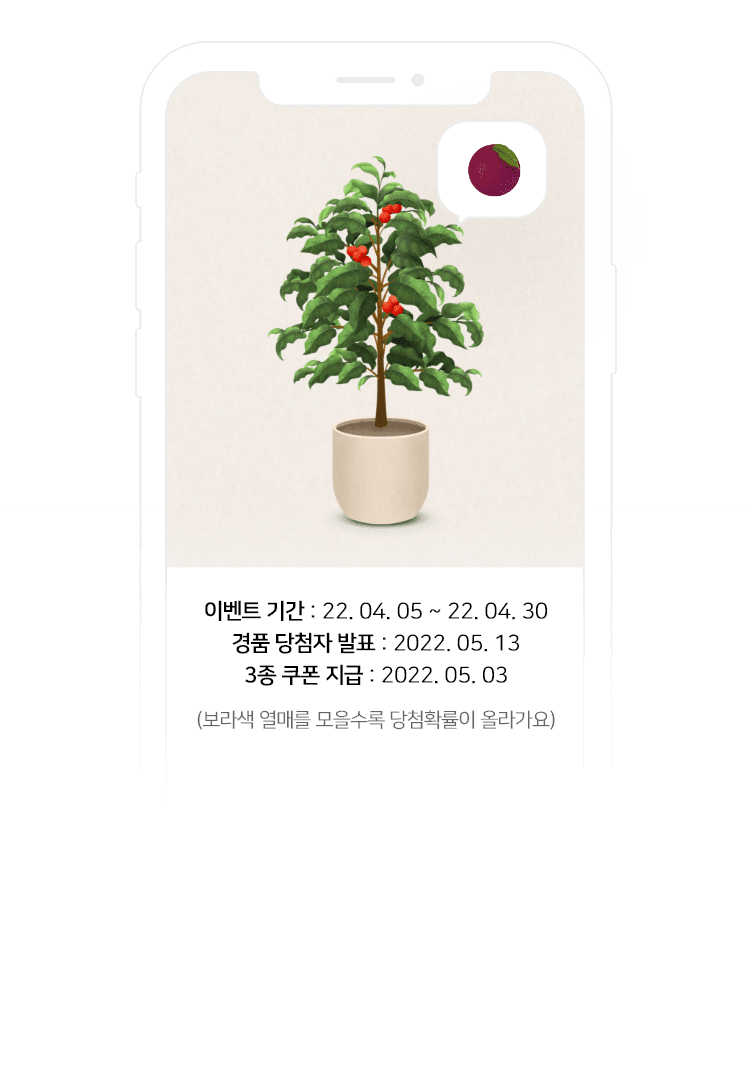
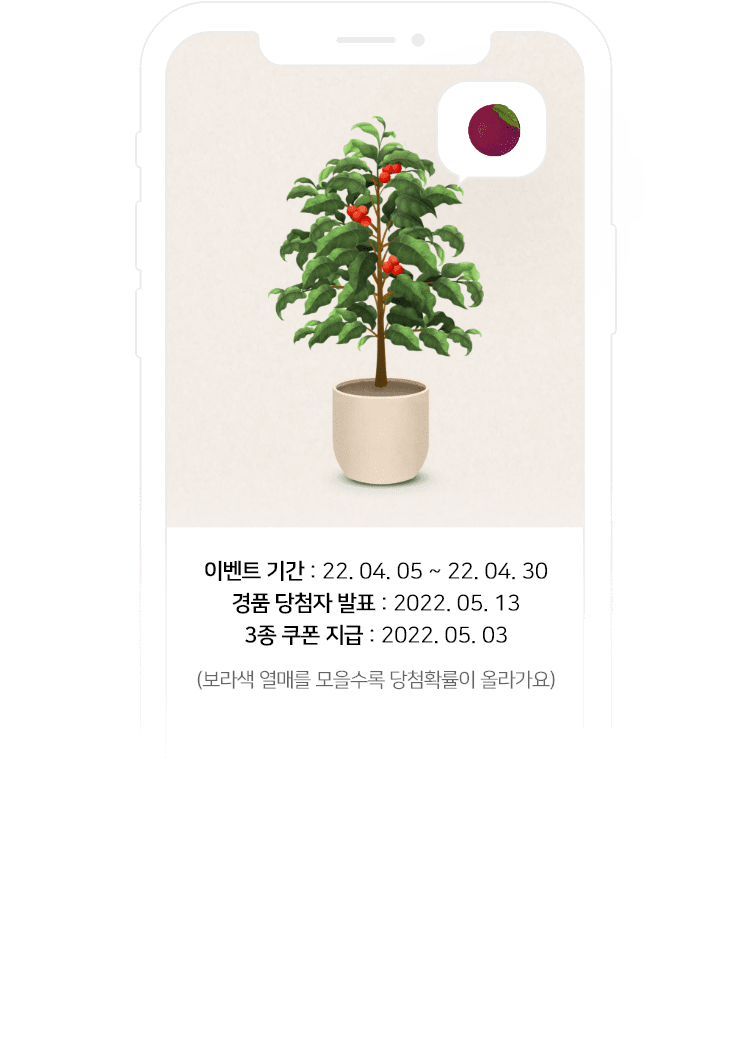
나무 최종업데이트

Changed region(s): [[0.2147, 0.0308, 0.7973, 0.4316], [0.2453, 0.5241, 0.736, 0.6782], [0.4293, 0.4316, 0.5827, 0.4933]]

diff --git a/src/Pages/Event/index.js b/src/Pages/Event/index.js
@@ -492,11 +492,11 @@ export default function Index() {
                   className="swiper-container"
                   slidesPerView={1}
                   pagination={{
-                    el: ".swiper-pagination",
+                    el: "#CoffeeTreeGuide .swiper-pagination",
                     clickable: true,
                   }}
                   navigation={{
-                    nextEl: ".swiper-button-next",
+                    nextEl: "#CoffeeTreeGuide .swiper-button-next",
                   }}
                   observer={true}
                   observeParents={true}
@@ -508,8 +508,8 @@ export default function Index() {
                     }
                   }}
                 >
-                  <ul className="swiper-wrapper data-list" slot="container-start">
-                    <li className="swiper-slide step01">
+                  <ul className="swiper-wrapper data-list">
+                    <SwiperSlide className="swiper-slide step01">
                       <div className="cont-wrap">
                         <img src="/@resource/images/event/event_guide_01.png" alt="" className="img" />
                         <div className="text-wrap">
@@ -523,8 +523,8 @@ export default function Index() {
                           </p>
                         </div>
                       </div>
-                    </li>
-                    <li className="swiper-slide step02">
+                    </SwiperSlide>
+                    <SwiperSlide className="swiper-slide step02">
                       <div className="cont-wrap">
                         <img src="/@resource/images/event/event_guide_02.png" alt="" className="img" />
 
@@ -536,8 +536,8 @@ export default function Index() {
                           </p>
                         </div>
                       </div>
-                    </li>
-                    <li className="swiper-slide step03">
+                    </SwiperSlide>
+                    <SwiperSlide className="swiper-slide step03">
                       <div className="cont-wrap">
                         <img src="/@resource/images/event/event_guide_03.png" alt="" className="img" />
 
@@ -549,8 +549,8 @@ export default function Index() {
                           </p>
                         </div>
                       </div>
-                    </li>
-                    <li className="swiper-slide step04">
+                    </SwiperSlide>
+                    <SwiperSlide className="swiper-slide step04">
                       <div className="cont-wrap">
                         <img src="/@resource/images/event/event_guide_04.png" alt="" className="img" />
 
@@ -562,16 +562,16 @@ export default function Index() {
                           </p>
                         </div>
                       </div>
-                    </li>
+                    </SwiperSlide>
                   </ul>
                   <div className="swiper-pagination"></div>
-                  <div className="swiper-button-next btn normal large full ">다음</div>
                 </Swiper>
 
                 <div className="btn-area">
                   <button type="button" className="btn dark large full close-modal event-next" onClick={(e) => goEvent_page("CoffeeTreeGame")}>
                     시작하기
                   </button>
+                  <div className="swiper-button-next btn normal large full ">다음</div>
                 </div>
               </div>
             </div>
@@ -1047,10 +1047,10 @@ export default function Index() {
 
                 <div
                   className={`btn-area ${
-                    axioData?.userInfo?.ts_bean_yellow > 30 ||
-                    axioData?.userInfo?.ts_bean_orange > 30 ||
-                    axioData?.userInfo?.ts_bean_pink > 30 ||
-                    axioData?.userInfo?.ts_bean_red > 30
+                    axioData?.userInfo?.ts_bean_yellow > 10 ||
+                    axioData?.userInfo?.ts_bean_orange > 10 ||
+                    axioData?.userInfo?.ts_bean_pink > 10 ||
+                    axioData?.userInfo?.ts_bean_red > 10
                       ? "active"
                       : ""
                   }`}

diff --git a/public/@resource/css/dalkomm.css b/public/@resource/css/dalkomm.css
@@ -1268,24 +1268,24 @@ body .overlay.active.coffee-tree {display: block; background-color: #fff;}
 	80% {margin-top: 0;}
 	100% {margin-top: 0;}
 }
-
+#CoffeeTreeGuide {padding-left: 0; padding-right: 0;;}
 #CoffeeTreeGuide .modal-body {height: 100%;}
-#CoffeeTreeGuide.coffee-tree .modal-header + .modal-body {padding-top: 5vh;}
+#CoffeeTreeGuide.coffee-tree .modal-header + .modal-body {padding-top: 5vh; overflow: hidden;}
 #CoffeeTreeGuide .header .btn.skip{font-weight: 600; font-size: 3.733vw; color: #000; margin-top: 1.333vw;}
 #CoffeeTreeGuide.coffee-tree .content-wrap {padding-top: 0;}
-#CoffeeTreeGuide .swiper-container {width: calc(100% + (5.333vw * 2)); margin-left: -5.333vw; /* margin-bottom: 42.667vw;*/ transition: opacity 0.3s ease, z-index 0.3s ease;}
+#CoffeeTreeGuide .swiper-container {width: 100%; /* margin-bottom: 42.667vw;*/}
 #CoffeeTreeGuide .swiper-pagination-bullet-active {background-color:#ff592e;}
-#CoffeeTreeGuide .swiper-container-horizontal > .swiper-pagination-bullets {bottom: 3vh;}
-#CoffeeTreeGuide .cont-wrap {position: relative; font-size: 0;}
-#CoffeeTreeGuide .text-wrap {position: absolute; bottom: 5.2vh; left: 0; width: 100%; padding: 0 5.333vw; box-sizing: border-box;}
-#CoffeeTreeGuide li.step01 .text-wrap {bottom: 8.067vh;}
-#CoffeeTreeGuide .text-wrap .title {font-weight: 600; font-size: 4.267vw; text-align: center;}
-#CoffeeTreeGuide .text-wrap .text {font-size: 3.2vw; color: rgba(0,0,0,0.8); text-align: center; margin-top: 1.5vh;}
-/* #CoffeeTreeGuide .content-wrap .btn-area {position: fixed; bottom: 10.667vw; left: 5.333vw; width: calc(100% - (5.333vw * 2)); padding-bottom: 0; z-index: 1;} */
-/* #CoffeeTreeGuide .content-wrap .btn-area {margin-top: 17.067vw;} */
-#CoffeeTreeGuide .content-wrap .btn.event-next {font-weight: 700; color: #fff;  transition: opacity 0.3s ease, z-index 0.3s ease;}
-#CoffeeTreeGuide .swiper-button-next {position: fixed; top: auto; bottom: 10.667vw; left: 5.333vw; right: auto; width: calc(100% - (5.333vw * 2)); font-weight: 700; font-size: 4.267vw; color: #000; margin-top: 0; -webkit-tap-highlight-color: transparent;}
+#CoffeeTreeGuide .swiper-container-horizontal > .swiper-pagination-bullets {bottom: 12vw;}
+#CoffeeTreeGuide .cont-wrap {position: relative; height: 138.4vw; font-size: 0;}
+#CoffeeTreeGuide .cont-wrap .img{height: auto;}
+#CoffeeTreeGuide .text-wrap {position: absolute; bottom: 18vw; left: 0; width: 100%; padding: 0 5.333vw; box-sizing: border-box; font-size: 0 !important;}
+#CoffeeTreeGuide .step01 .text-wrap {bottom: 19vw;}
+#CoffeeTreeGuide .text-wrap .title {font-weight: 600; font-size: 4.267vw !important; text-align: center;}
+#CoffeeTreeGuide .text-wrap .text {font-size: 3.2vw !important; color: rgba(0,0,0,0.8); text-align: center; margin-top: 1.5vw;}
+#CoffeeTreeGuide .content-wrap .btn-area {position: fixed; bottom: 10.667vw; left: 5.333vw; width: calc(100% - (5.333vw * 2)); padding-bottom: 0; z-index: 1;}
+#CoffeeTreeGuide .content-wrap .btn-area {margin-top: 17.067vw;} 
+#CoffeeTreeGuide .content-wrap .btn.event-next {font-weight: 700; color: #fff; }
+#CoffeeTreeGuide .swiper-button-next {position: fixed; bottom: 10.667vw; top: auto; left: 5.333vw; right: auto; width: calc(100% - (5.333vw * 2)); height: 16vw !important;  font-weight: 700; font-size: 4.267vw; color: #000; margin-top: 0; -webkit-tap-highlight-color: transparent;}
 #CoffeeTreeGuide .swiper-button-next:after {display: none;}
-#CoffeeTreeGuide .content-wrap .btn.event-next,
-#CoffeeTreeGuide .swiper-container.last-slide .swiper-button-next {opacity: 0; z-index: -1;}
+#CoffeeTreeGuide .swiper-container.last-slide + .btn-area .swiper-button-next {opacity: 0; z-index: -1;}
 #CoffeeTreeGuide .swiper-container.last-slide + .btn-area .btn.event-next {opacity: 1; z-index: 1;}

diff --git a/src/Pages/Main.js b/src/Pages/Main.js
@@ -29,8 +29,9 @@ export function Main(props) {
   let dev_count = 1;
   const nowTime = new Date().getTime();
   const startTime = new Date("2022/03/04 00:00:00").getTime();
-  const eventStartTime = new Date("2022/04/05 00:00:00").getTime();
   const endTime = new Date("2022/03/02 23:59:59").getTime();
+  const eventStartTime = new Date("2022/04/05 00:00:00").getTime();
+  const eventEndTime = new Date("2022/04/30 23:59:59").getTime();
 
   const [state] = useContext(authContext);
   const [axioData, setData] = useState(false);
@@ -225,10 +226,10 @@ export function Main(props) {
 
   const handleGoDetail = () => {
     let link_result = $(".swiper-slide-active").attr("linktype");
-    let link_title = $(".swiper-slide-active").attr("title");
+    let link_cseq = $(".swiper-slide-active").attr("cseq");
     let link_result_location = $(".swiper-slide-active").attr("link");
 
-    if (nowTime >= eventStartTime && link_title === "나의 달콤 커피나무") {
+    if (nowTime >= eventStartTime && nowTime < eventEndTime && link_cseq === "47") {
       return fn_event();
     }
 
@@ -327,7 +328,7 @@ export function Main(props) {
                 <ul className="swiper-wrapper">
                   {axioData?.res1_data?.list?.map((e, i) => {
                     return (
-                      <li className="swiper-slide" key={i} linktype={e?.linktype} link={e?.linklocation} title={e?.title}>
+                      <li className="swiper-slide" key={i} linktype={e?.linktype} link={e?.linklocation} cseq={e?.cseq}>
                         <div className="banner-wrap main-top-banner">
                           <div className="img-wrap">
                             <img src={e?.thumb} alt="여름 스테디셀러" />
@@ -1109,8 +1110,8 @@ export function Main(props) {
               <button type="button" id="moveScrollTop" className="btn scroll-top" onClick={() => moveScrollTop()}>
                 <i className="ico arr-top"></i>
               </button>
-              {/* {nowTime >= eventStartTime && axioData?.userData?.is_union_user && ( */}
-              {axioData?.userData?.is_union_user && (
+              {/* {axioData?.userData?.is_union_user && ( */}
+              {nowTime >= eventStartTime && nowTime < eventEndTime && axioData?.userData?.is_union_user && (
                 <div className="overlay event-banner active">
                   <div className="content-wrap">
                     <button type="button" className="btn btn-close"></button>

diff --git a/public/@resource/css/dalkomm_react.css b/public/@resource/css/dalkomm_react.css
@@ -59,11 +59,10 @@ input[type="number"]:disabled{background-color: rgb(255, 255, 255); color:rgb(0,
 
 .em-bold{color: #000;}
 
-#CoffeeTreeGuide .step01 .text-wrap {bottom: 8.067vh;}
 .coffee-tree .btn.game-state {color: #000;}
 #CoffeeTreeGuide .swiper-button-next,
 #CoffeeTreeGuide .content-wrap .btn.event-next {transition: none;}
 #CoffeeTreeGuide .swiper-container,
 #CoffeeTreeGuide .swiper-slide {font-size: 0 !important;}
 #CoffeeTreeGuide .text-wrap .title {font-weight: 600; font-size: 4.267vw !important; text-align: center;}
-#CoffeeTreeGuide .text-wrap .text {font-size: 3.2vw !important; color: rgba(0,0,0,0.8); text-align: center; margin-top: 1.5vh;}
+#CoffeeTreeGuide .text-wrap .text {font-size: 3.2vw !important; color: rgba(0,0,0,0.8); text-align: center;;}

diff --git a/src/Config/Server.js b/src/Config/Server.js
@@ -1,4 +1,4 @@
-//export const SERVER_DALKOMM = `https://app.dalkomm.com`;
-export const SERVER_DALKOMM = `https://dev-app.dalkomm.com`;
+export const SERVER_DALKOMM = `https://app.dalkomm.com`;
+//export const SERVER_DALKOMM = `https://dev-app.dalkomm.com`;
 export const SERVER_DALKOMM_SUGAR = `https://dalkomm.com`;
 export const FRONT_SERVER = `http://dalkomm.com:8090/`;
